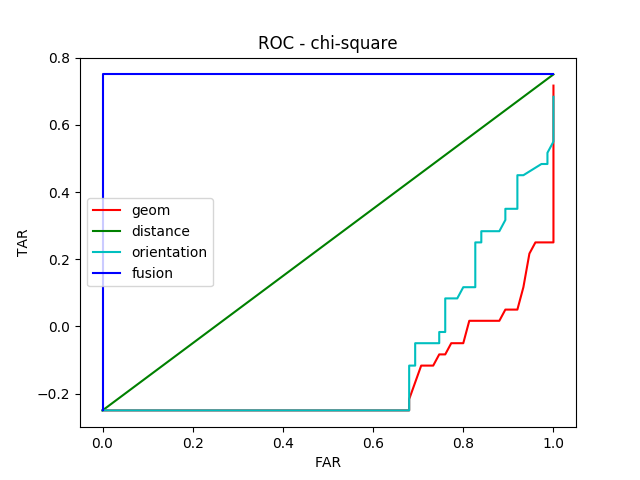
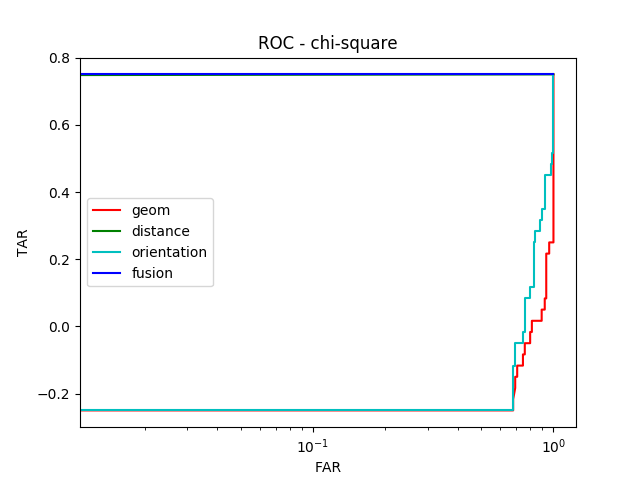
scale variance

diff --git a/index.py b/index.py
@@ -212,7 +212,7 @@ def saveMatrix(scores, measures, pickle_base, norms_path, row_path):
                         np.save(pickle_base + 'mini_maxi/' + file_name + '_' + mea, (mini, maxi))
 
 
-def saveParams(scores, measures, num_imgs, pickle_base, params_path, norms_path):
+def saveParams(scores, measures, num_imgs, pickle_base, params_path, norms_path, scale):
 
         for cod, (measure, mea) in measures:
 
@@ -222,7 +222,7 @@ def saveParams(scores, measures, num_imgs, pickle_base, params_path, norms_path)
                         # 
                         centroids_indexes, matrix_distances_norm = np.load( pickle_base + norms_path + file_name + '_' + mea + '.npy' )
                         
-                        performance_params = threshPerformanceParams(matrix_distances_norm, num_imgs, centroids_indexes)
+                        performance_params = threshPerformanceParams(matrix_distances_norm, num_imgs, centroids_indexes, scale)
 
                         # matrixes.append(matrix_distances_norm)
 
@@ -262,9 +262,9 @@ def fusionScores(measures, num_imgs, pickle_base, norms_path):
                 np.save(pickle_base + 'mini_maxi/' + 'fusion_' + mea, (mini, maxi))
 
 
-def saveFigures(scores_reduct_all, measures, pickle_base, params_path, path_figs, thresholds):
+def saveFigures(scores_reduct_all, measures, pickle_base, params_path, path_figs, thresholds, scale):
 
-        h = 100
+        h = scale
         w = len(scores_reduct_all)
 
         perf_matrix = np.matrix( np.zeros(shape=( h * w, w * w )))
@@ -294,7 +294,7 @@ def saveFigures(scores_reduct_all, measures, pickle_base, params_path, path_figs
         
 def saveThreshFigure(h, w, measures, performance_params_list, path_figs, title, thresholds):
 
-        x = np.arange(0, 1.0, 0.01)
+        x = np.linspace(0, 1.0, h)
 
         # print(len(performance_params_list))
         EERs = dict()
@@ -353,6 +353,7 @@ def saveROCScoreFigure(h, w, column_score, title, measures):
         
         plt.xlabel('FAR')
         plt.ylabel('TAR')
+        plt.xscale('log')
         plt.title('ROC - '+title)
         plt.legend()
         plt.savefig( path_figs + 'ROC_'+ title + '.png')
@@ -378,6 +379,7 @@ def saveROCMeasureFigure(h, w, row_score, measure, scores_reduct_all):
         
         plt.xlabel('FAR')
         plt.ylabel('TAR')
+        plt.xscale('log')
         plt.title('ROC - '+measure)
         plt.legend()
         plt.savefig( path_figs + 'ROC_'+ measure + '.png')
@@ -518,12 +520,14 @@ def test(measures, path_test, hand_path, pickle_path , norms_path, row_path):
         print('TEST insuccess: ', fusion_insuccess)
 
 def main():
+
+        scale = 1000
         
         paths = os.listdir(hand_base + path_in)
 
         n_people, _ = countPeoplePhoto(hand_base + path_in)
 
-        # saveScores(n_people, 5, hand_base + path_in, hand_base, pickle_base + scores_path)
+        saveScores(n_people, 5, hand_base + path_in, hand_base, pickle_base + scores_path)
 
         g_scores = np.load(pickle_base + scores_path + 'geom.npy')
         d_scores = np.load(pickle_base + scores_path + 'distance.npy')
@@ -537,7 +541,7 @@ def main():
                 ( o_scores, ('o', 'orientation'))  
         ]
 
-        # saveMatrix(scores, measures, pickle_base, norms_path, row_path)
+        saveMatrix(scores, measures, pickle_base, norms_path, row_path)
 
         scores_reduct_all = [
                 ( 'g', 'geom'       ),
@@ -546,11 +550,11 @@ def main():
                 ( 'f', 'fusion'     )
         ]
 
-        # fusionScores(measures, num_imgs, pickle_base, norms_path)
+        fusionScores(measures, num_imgs, pickle_base, norms_path)
 
-        # saveParams(scores_reduct_all, measures, num_imgs, pickle_base, params_path, norms_path)
+        saveParams(scores_reduct_all, measures, num_imgs, pickle_base, params_path, norms_path, scale)
 
-        # saveFigures(scores_reduct_all, measures, pickle_base,  params_path, path_figs, thresholds)
+        saveFigures(scores_reduct_all, measures, pickle_base,  params_path, path_figs, thresholds, scale)
 
         test(measures, path_test, hand_path, pickle_path, norms_path, pickle_base + row_path )
         

diff --git a/ComputeScores.py b/ComputeScores.py
@@ -139,11 +139,11 @@ def getDI( array ):
     return np.abs(m_g - m_i)/np.sqrt((ds_i ** 2 + ds_g ** 2)/2)
     
 
-def threshPerformanceMeasure(matrix_distances, num_imgs, centroid_indexes):
+def threshPerformanceMeasure(matrix_distances, num_imgs, centroid_indexes, scale):
 
-    performance_measure = np.zeros((100, 8))
+    performance_measure = np.zeros((scale, 8))
 
-    for i, thresh in enumerate(np.arange(0.0, 1.0, 0.01)):
+    for i, thresh in enumerate(np.linspace(0.0, 1.0, scale)):
             matrix_thresh = np.where(matrix_distances < thresh, 1, 0) 
             matrix_mask = np.zeros((matrix_thresh.shape[0], matrix_thresh.shape[1]))
             
@@ -155,9 +155,9 @@ def threshPerformanceMeasure(matrix_distances, num_imgs, centroid_indexes):
     return performance_measure
 
 
-def threshPerformanceParams(matrix_distances, num_imgs, centroid_indexes):
+def threshPerformanceParams(matrix_distances, num_imgs, centroid_indexes, scale):
 
-    performance_measure = threshPerformanceMeasure(matrix_distances, num_imgs, centroid_indexes)
+    performance_measure = threshPerformanceMeasure(matrix_distances, num_imgs, centroid_indexes, scale)
 
     # print(performance_measure)
 
